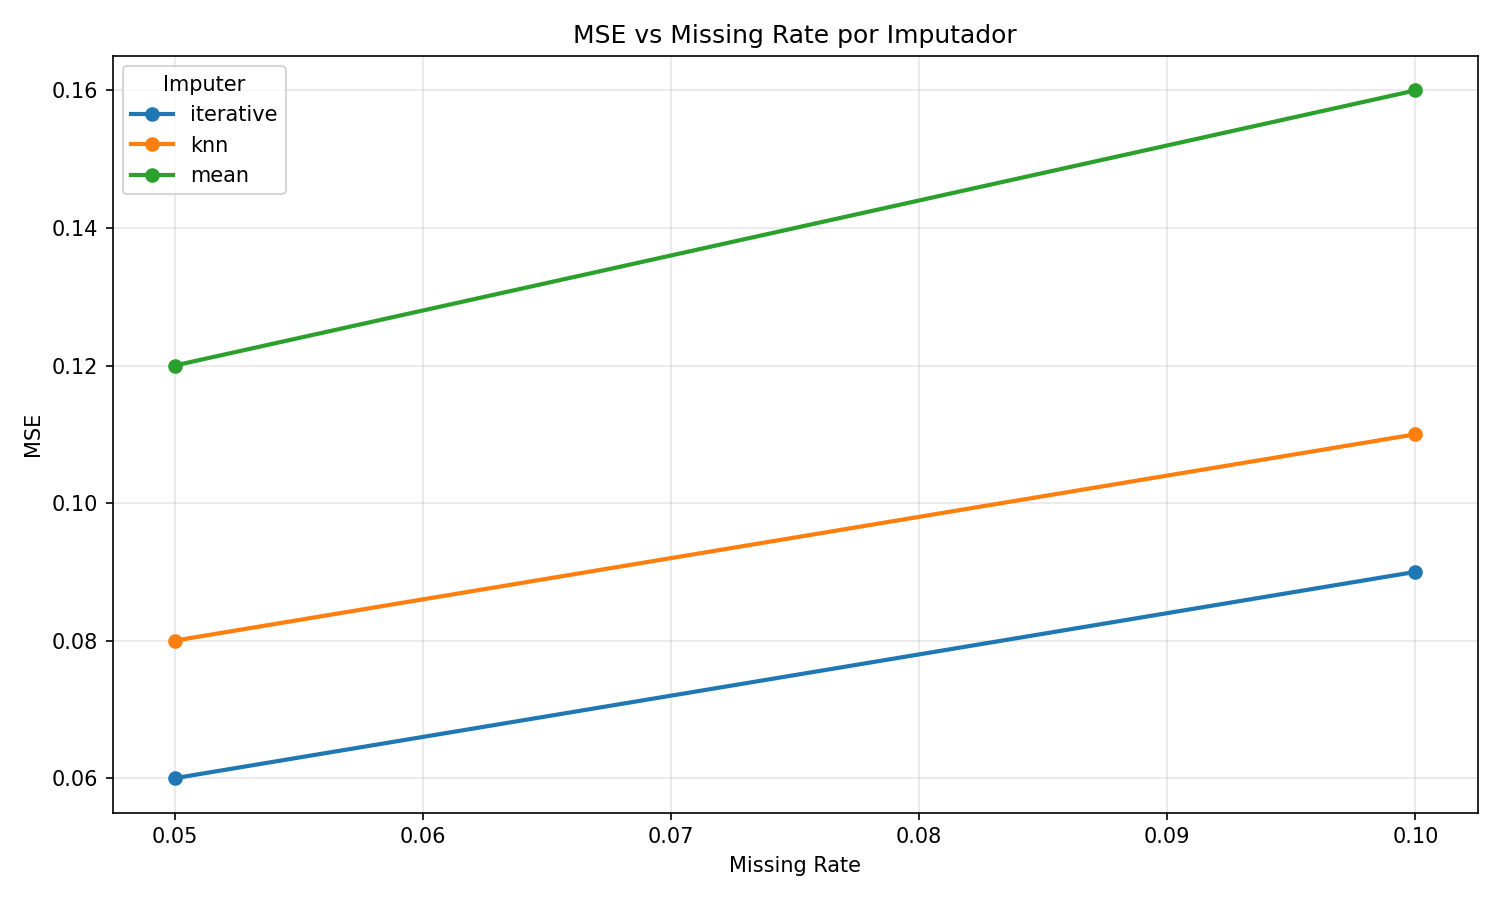
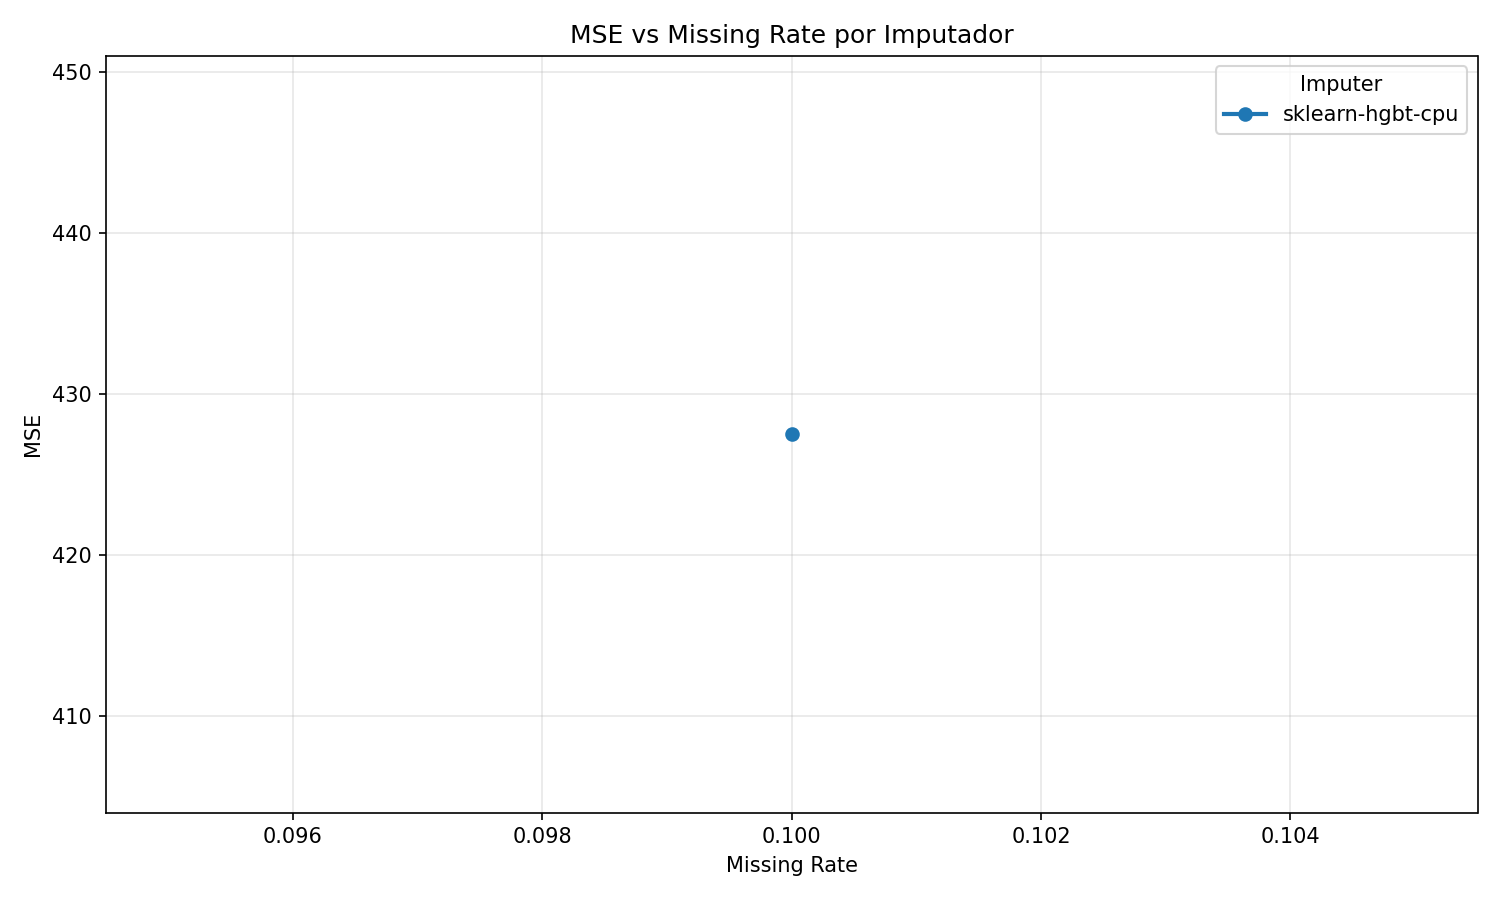
Add CO2 metrics JSON and new smoke test CSV files
- Created a new JSON file `co2_metrics_e2e.json` containing metrics for the CO2 model, including MAE, RMSE, R², and input/output details.
- Added two new smoke test CSV files: `e2e_imputado_smoke.csv` and `e2e_imputado_smoke2.csv`, both of which are large files for testing purposes.

diff --git a/src/depuracion_txt.py b/src/depuracion_txt.py
@@ -17,7 +17,37 @@ def build_parser() -> argparse.ArgumentParser:
   parser.add_argument(
     "--output",
     default="data/processed/muestra_50k_con_co2.csv",
-    help="Ruta del archivo de salida.",
+    help="Ruta del archivo de salida (modo archivo unico).",
+  )
+  parser.add_argument(
+    "--pool-dir",
+    default="",
+    help=(
+      "Directorio para exportar multiples muestras CSV. "
+      "Si se define, se generan archivos por bloques y se ignora --output."
+    ),
+  )
+  parser.add_argument(
+    "--rows-per-sample",
+    type=int,
+    default=100_000,
+    help="Numero de filas por muestra CSV cuando se usa --pool-dir.",
+  )
+  parser.add_argument(
+    "--max-samples",
+    type=int,
+    default=0,
+    help="Maximo de muestras a generar en --pool-dir. 0 = sin limite.",
+  )
+  parser.add_argument(
+    "--pool-prefix",
+    default="muestra_100k_",
+    help="Prefijo de nombre de archivo para muestras en --pool-dir.",
+  )
+  parser.add_argument(
+    "--keep-remainder",
+    action="store_true",
+    help="Guarda una muestra final incompleta si quedan filas en buffer.",
   )
   parser.add_argument(
     "--in-sep",
@@ -43,7 +73,7 @@ def build_parser() -> argparse.ArgumentParser:
     "--chunksize",
     type=int,
     default=100_000,
-    help="Numero de filas por bloque.",
+    help="Numero de filas por bloque de lectura.",
   )
   parser.add_argument(
     "--columns",
@@ -57,28 +87,113 @@ def build_parser() -> argparse.ArgumentParser:
   )
   parser.add_argument(
     "--keep-only-with-target",
-    action="store_true",
+    action=argparse.BooleanOptionalAction,
     default=True,
-    help="Conserva solo filas con valor en la columna objetivo.",
+    help=(
+      "Conserva solo filas con valor en la columna objetivo (default: True). "
+      "Usa --no-keep-only-with-target para desactivarlo."
+    ),
   )
   return parser
 
 
 def _has_value(series: pd.Series) -> pd.Series:
-  cleaned = series.astype(str).str.strip().str.lower()
-  return ~cleaned.isin({"", "nan", "none", "null"})
+  cleaned = series.fillna("").astype(str).str.strip().str.lower()
+  return ~cleaned.isin({"", "nan", "none", "null", "<na>"})
+
+
+def _validate_args(args: argparse.Namespace) -> None:
+  if args.rows_per_sample < 1:
+    raise ValueError("--rows-per-sample debe ser >= 1")
+  if args.max_samples < 0:
+    raise ValueError("--max-samples debe ser >= 0")
+
+
+def _select_columns(chunk: pd.DataFrame, selected_columns: list[str]) -> pd.DataFrame:
+  if not selected_columns:
+    return chunk
+
+  missing = [c for c in selected_columns if c not in chunk.columns]
+  if missing:
+    raise ValueError(
+      "Error: columnas no encontradas en la entrada: "
+      + ", ".join(missing)
+      + "\nColumnas disponibles: "
+      + ", ".join(chunk.columns)
+    )
+  return chunk[selected_columns]
+
+
+def _filter_target_rows(
+  chunk: pd.DataFrame,
+  keep_only_with_target: bool,
+  target_column: str,
+) -> pd.DataFrame:
+  if not keep_only_with_target:
+    return chunk
+
+  if target_column not in chunk.columns:
+    raise ValueError(
+      f"Error: no existe la columna objetivo {target_column} en la entrada."
+    )
+  return chunk[_has_value(chunk[target_column])]
+
+
+def _write_pool_sample(
+  sample_df: pd.DataFrame,
+  sample_index: int,
+  pool_dir: Path,
+  pool_prefix: str,
+  out_sep: str,
+  out_encoding: str,
+) -> Path:
+  sample_path = pool_dir / f"{pool_prefix}{sample_index:04d}.csv"
+  sample_df.to_csv(sample_path, index=False, sep=out_sep, encoding=out_encoding)
+  return sample_path
+
+
+def _write_single_chunk(
+  chunk: pd.DataFrame,
+  chunk_index: int,
+  output_path: Path,
+  out_sep: str,
+  out_encoding: str,
+) -> None:
+  mode = "w" if chunk_index == 0 else "a"
+  header = chunk_index == 0
+  chunk.to_csv(
+    output_path,
+    index=False,
+    mode=mode,
+    header=header,
+    sep=out_sep,
+    encoding=out_encoding,
+  )
 
 
 def main() -> int:
   parser = build_parser()
   args = parser.parse_args()
 
+  try:
+    _validate_args(args)
+  except ValueError as exc:
+    print(f"Error: {exc}")
+    return 1
+
   output_path = Path(args.output)
   output_path.parent.mkdir(parents=True, exist_ok=True)
 
+  pool_dir_path = Path(args.pool_dir) if args.pool_dir else None
+  if pool_dir_path:
+    pool_dir_path.mkdir(parents=True, exist_ok=True)
+
   selected_columns = [c.strip() for c in args.columns.split(",") if c.strip()]
-  total_rows = 0
+  input_rows = 0
   kept_rows = 0
+  generated_samples = 0
+  sample_index = 1
+  pool_buffer = pd.DataFrame()
 
   try:
     reader = pd.read_csv(
@@ -90,40 +205,81 @@ def main() -> int:
       dtype=str,
     )
 
-    for i, chunk in enumerate(reader):
-      if selected_columns:
-        missing = [c for c in selected_columns if c not in chunk.columns]
-        if missing:
-          print(
-            "Error: columnas no encontradas en la entrada: "
-            + ", ".join(missing)
-          )
-          print("Columnas disponibles: " + ", ".join(chunk.columns))
-          return 1
-        chunk = chunk[selected_columns]
+    for i, raw_chunk in enumerate(reader):
+      if args.max_samples > 0 and generated_samples >= args.max_samples:
+        print(f"Info: alcanzado maximo de muestras ({args.max_samples}).")
+        break
 
-      if args.keep_only_with_target:
-        if args.target_column not in chunk.columns:
-          print(
-            f"Error: no existe la columna objetivo {args.target_column} en la entrada."
-          )
-          return 1
-        chunk = chunk[_has_value(chunk[args.target_column])]
+      input_rows += len(raw_chunk)
 
-      mode = "w" if i == 0 else "a"
-      write_header = i == 0
-      chunk.to_csv(
-        output_path,
-        index=False,
-        mode=mode,
-        header=write_header,
-        sep=args.out_sep,
-        encoding=args.out_encoding,
+      chunk = _select_columns(raw_chunk, selected_columns)
+      chunk = _filter_target_rows(
+        chunk,
+        keep_only_with_target=args.keep_only_with_target,
+        target_column=args.target_column,
+      )
+      kept_rows += len(chunk)
+
+      if pool_dir_path is None:
+        _write_single_chunk(
+          chunk,
+          chunk_index=i,
+          output_path=output_path,
+          out_sep=args.out_sep,
+          out_encoding=args.out_encoding,
+        )
+        print(
+          f"Chunk {i}: {len(chunk)} filas exportadas con {args.target_column} informado"
+        )
+        continue
+
+      if chunk.empty:
+        print(f"Chunk {i}: 0 filas utiles")
+        continue
+
+      if pool_buffer.empty:
+        combined = chunk
+      else:
+        combined = pd.concat([pool_buffer, chunk], ignore_index=True)
+
+      while len(combined) >= args.rows_per_sample:
+        if args.max_samples > 0 and generated_samples >= args.max_samples:
+          break
+
+        sample_df = combined.iloc[:args.rows_per_sample].copy()
+        sample_path = _write_pool_sample(
+          sample_df=sample_df,
+          sample_index=sample_index,
+          pool_dir=pool_dir_path,
+          pool_prefix=args.pool_prefix,
+          out_sep=args.out_sep,
+          out_encoding=args.out_encoding,
+        )
+        generated_samples += 1
+        sample_index += 1
+        print(f"Muestra {generated_samples}: {len(sample_df)} filas -> {sample_path}")
+
+        combined = combined.iloc[args.rows_per_sample:].reset_index(drop=True)
+
+      pool_buffer = combined
+      print(
+        f"Chunk {i}: {len(chunk)} filas utiles, acumulado pendiente: {len(pool_buffer)}"
       )
 
-      total_rows += len(chunk)
-      kept_rows += len(chunk)
-      print(f"Chunk {i}: {len(chunk)} filas exportadas con {args.target_column} informado")
+    if pool_dir_path and args.keep_remainder and not pool_buffer.empty:
+      if args.max_samples == 0 or generated_samples < args.max_samples:
+        sample_path = _write_pool_sample(
+          sample_df=pool_buffer,
+          sample_index=sample_index,
+          pool_dir=pool_dir_path,
+          pool_prefix=args.pool_prefix,
+          out_sep=args.out_sep,
+          out_encoding=args.out_encoding,
+        )
+        generated_samples += 1
+        print(
+          f"Muestra final (remanente): {len(pool_buffer)} filas -> {sample_path}"
+        )
 
   except FileNotFoundError:
     print(f"Error: no se encontro el archivo de entrada: {args.input}")
@@ -134,14 +290,23 @@ def main() -> int:
       "Prueba con --in-encoding iso-8859-1 o --in-encoding utf-8-sig segun tu archivo."
     )
     return 1
+  except ValueError as exc:
+    print(str(exc))
+    return 1
   except Exception as exc:
     print(f"Error inesperado: {exc}")
     return 1
 
-  print(
-    f"Proceso completado. Filas de salida con {args.target_column}: {kept_rows}. "
-    f"Salida: {output_path}"
-  )
+  if pool_dir_path:
+    print(
+      f"Proceso completado. Filas leidas: {input_rows}. Filas utiles: {kept_rows}. "
+      f"Muestras generadas: {generated_samples}. Directorio: {pool_dir_path}"
+    )
+  else:
+    print(
+      f"Proceso completado. Filas leidas: {input_rows}. Filas de salida con "
+      f"{args.target_column}: {kept_rows}. Salida: {output_path}"
+    )
   return 0
 
 

diff --git a/README.md b/README.md
@@ -46,22 +46,39 @@ Comando recomendado:
   --input data/processed/muestra_50k_con_co2.csv \
   --output data/processed/muestra_50k_co2_imputado.csv \
   --missing-rate 20 \
-  --device cuda \
   --simplificado \
   --sep , \
   --encoding utf-8
 ```
 
-Notas de dispositivo:
+Entrenamiento desde pool de muestras (seleccion aleatoria por ejecucion):
 
-- `--device cuda`: usa GPU con XGBoost (recomendado si tienes NVIDIA compatible).
-- `--device cpu`: usa el modelo de scikit-learn en CPU.
+```bash
+./.venv/bin/python src/imputacion_co2_ml.py \
+  --pool-dir data/processed/pool \
+  --pool-pattern '*.csv' \
+  --missing-rate 20 \
+  --simplificado
+```
+
+Directorio de pool recomendado para almacenar muestras:
+
+- [data/processed/pool](data/processed/pool)
 
 Ayuda de opciones:
 
 ```bash
 ./.venv/bin/python src/imputacion_co2_ml.py --help
 ```
+
+Hiperparametros del modelo configurables por CLI:
+
+- --max-iter (default: 350)
+- --learning-rate (default: 0.05)
+- --max-depth (default: 8, usa -1 para sin limite)
+- --min-samples-leaf (default: 20)
+- --pool-dir (si se define, ignora --input y elige una muestra aleatoria del pool)
+- --pool-pattern (default: *.csv)
 
 Salidas por defecto:
 
@@ -85,10 +102,28 @@ El modulo [src/results_pipeline.py](src/results_pipeline.py) crea automaticament
 - Graficas MSE y MAE vs missing rate.
 - Log con fecha, imputadores, missing rates y numero de experimentos.
 
-Comando:
+Por defecto, toma metricas reales desde
+[artifacts/metrics/co2_metrics.json](artifacts/metrics/co2_metrics.json)
+(generado por [src/imputacion_co2_ml.py](src/imputacion_co2_ml.py)) y construye
+las tablas/plots para el modelo unico actual (`HistGradientBoostingRegressor`).
+
+Comando (modo real por defecto):
 
 ```bash
 ./.venv/bin/python src/results_pipeline.py
+```
+
+CSV real de resultados (si se define, tiene prioridad sobre --mode):
+
+```bash
+./.venv/bin/python src/results_pipeline.py \
+  --input results/tables/experiment_results.csv
+```
+
+Modo demo (datos ficticios de ejemplo):
+
+```bash
+./.venv/bin/python src/results_pipeline.py --mode demo
 ```
 
 Salidas:
@@ -106,6 +141,8 @@ Salidas:
 Archivo: [results/tables/experiment_results.csv](results/tables/experiment_results.csv)
 
 - Cada fila representa un experimento (`imputer`, `missing_rate`, `mse`, `mae`).
+- En el flujo actual, normalmente veras una sola fila/modelo
+  (`HistGradientBoostingRegressor`) en modo real.
 - Menor `mse` y menor `mae` significan mejor imputacion.
 - Sirve para comparar metodos en un missing rate especifico.
 